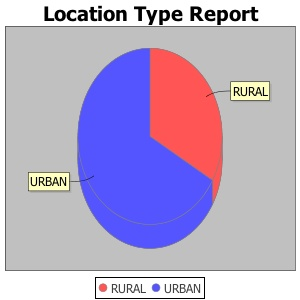
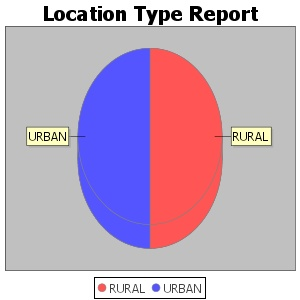
Add new utilities and REST api
email utilities and JFree chart utilities

diff --git a/Basic-Spring-Web-Page/src/main/java/com/ebore/location/controllers/LocationController.java b/Basic-Spring-Web-Page/src/main/java/com/ebore/location/controllers/LocationController.java
@@ -2,6 +2,8 @@ package com.ebore.location.controllers;
 
 import java.util.List;
 
+import javax.servlet.ServletContext;
+
 import org.springframework.beans.factory.annotation.Autowired;
 import org.springframework.stereotype.Controller;
 import org.springframework.ui.ModelMap;
@@ -10,7 +12,10 @@ import org.springframework.web.bind.annotation.RequestMapping;
 import org.springframework.web.bind.annotation.RequestParam;
 
 import com.ebore.location.entities.Location;
+import com.ebore.location.repos.LocationRepository;
 import com.ebore.location.service.LocationService;
+import com.ebore.location.util.EmailUtil;
+import com.ebore.location.util.ReportUtil;
 
 
 @Controller
@@ -18,6 +23,18 @@ public class LocationController {
 	
 	@Autowired
 	LocationService service;
+	
+	@Autowired
+	LocationRepository repository;
+	
+	@Autowired
+	EmailUtil emailUtil;
+	
+	@Autowired
+	ReportUtil reportUtil;
+	
+	@Autowired
+	ServletContext sc;
 
 	@RequestMapping("/showCreate")
 	public String showCreate() {
@@ -29,6 +46,7 @@ public class LocationController {
 		Location locationSaved = service.saveLocation(location);
 		String msg = "Location saved with id: " + locationSaved.getId();
 		modelMap.addAttribute("msg", msg);
+		emailUtil.sendEmail("ez092653@gmail.com", "Location Saved", "Location saved successfully and about to return a response.");
 		return "createLocation";
 	}
 	
@@ -61,6 +79,14 @@ public class LocationController {
 		List<Location> locations = service.getAllLocations();
 		modelMap.addAttribute("locations",locations);
 		return "displayLocations";
+	}
+	
+	@RequestMapping("/generateReport")
+	public String generateReport() {
+		String path = sc.getRealPath("/");	
+		List<Object[]> data = repository.findTypeAndTypeCount();
+		reportUtil.generatePieChart(path, data);
+		return "report";
 	}
 
 }

diff --git a/Basic-Spring-Web-Page/src/main/java/com/ebore/location/controllers/LocationRESTController.java b/Basic-Spring-Web-Page/src/main/java/com/ebore/location/controllers/LocationRESTController.java
@@ -1,0 +1,45 @@
+package com.ebore.location.controllers;
+
+import java.util.List;
+
+import org.springframework.beans.factory.annotation.Autowired;
+import org.springframework.web.bind.annotation.DeleteMapping;
+import org.springframework.web.bind.annotation.GetMapping;
+import org.springframework.web.bind.annotation.PathVariable;
+import org.springframework.web.bind.annotation.PostMapping;
+import org.springframework.web.bind.annotation.PutMapping;
+import org.springframework.web.bind.annotation.RequestBody;
+import org.springframework.web.bind.annotation.RequestMapping;
+import org.springframework.web.bind.annotation.RestController;
+
+import com.ebore.location.entities.Location;
+import com.ebore.location.repos.LocationRepository;
+
+@RestController
+@RequestMapping("/locations")
+public class LocationRESTController {
+	
+	@Autowired
+	LocationRepository locationRepository;
+	
+	@GetMapping
+	public List<Location> getLocations() {
+		return locationRepository.findAll();
+		
+	}
+	
+	@PostMapping
+	public Location createLocation(@RequestBody Location location) {
+		return locationRepository.save(location);
+	}
+	
+	@PutMapping
+	public Location updateLocation(@RequestBody Location location) {
+		return locationRepository.save(location);
+	}
+	
+	@DeleteMapping("/{id}")
+	public void deleteLocation(@PathVariable("id") int id) {
+		locationRepository.delete(id);
+	}
+}

diff --git a/Basic-Spring-Web-Page/src/main/java/com/ebore/location/util/ReportUtilImpl.java b/Basic-Spring-Web-Page/src/main/java/com/ebore/location/util/ReportUtilImpl.java
@@ -1,0 +1,33 @@
+package com.ebore.location.util;
+
+import java.io.File;
+import java.io.IOException;
+import java.util.List;
+
+import org.jfree.chart.ChartFactory;
+import org.jfree.chart.ChartUtilities;
+import org.jfree.chart.JFreeChart;
+import org.jfree.data.general.DefaultPieDataset;
+import org.springframework.stereotype.Component;
+
+@Component
+public class ReportUtilImpl implements ReportUtil {
+
+	@Override
+	public void generatePieChart(String path, List<Object[]> data) {	
+		DefaultPieDataset dataset = new DefaultPieDataset();
+		
+		for (Object[] objects : data) {
+			dataset.setValue(objects[0].toString(), new Double(objects[1].toString()));
+		}
+		
+		JFreeChart chart = ChartFactory.createPieChart3D("Location Type Report", dataset);
+		
+		try {
+			ChartUtilities.saveChartAsJPEG(new File(path + "/pieChart2.jpeg"), chart, 300, 300);
+		} catch (IOException e) {
+			e.printStackTrace();
+		}
+	}
+
+}

diff --git a/Basic-Spring-Web-Page/src/main/java/com/ebore/location/util/EmailUtilImpl.java b/Basic-Spring-Web-Page/src/main/java/com/ebore/location/util/EmailUtilImpl.java
@@ -1,0 +1,34 @@
+package com.ebore.location.util;
+
+import javax.mail.MessagingException;
+import javax.mail.internet.MimeMessage;
+
+import org.springframework.beans.factory.annotation.Autowired;
+import org.springframework.mail.javamail.JavaMailSender;
+import org.springframework.mail.javamail.MimeMessageHelper;
+import org.springframework.stereotype.Component;
+
+@Component
+public class EmailUtilImpl implements EmailUtil {
+	
+	@Autowired
+	private JavaMailSender sender;
+
+	@Override
+	public void sendEmail(String toAddress, String subject, String body) {
+		
+		MimeMessage message = sender.createMimeMessage();
+		MimeMessageHelper helper = new MimeMessageHelper(message);
+		try {
+			helper.setTo(toAddress);
+			helper.setText(body);
+			helper.setSubject(subject);
+		} catch (MessagingException e) {
+			e.printStackTrace();
+		}
+		
+		sender.send(message);
+
+	}
+
+}

diff --git a/Basic-Spring-Web-Page/src/main/java/com/ebore/location/util/ReportUtil.java b/Basic-Spring-Web-Page/src/main/java/com/ebore/location/util/ReportUtil.java
@@ -1,0 +1,8 @@
+package com.ebore.location.util;
+
+import java.util.List;
+
+public interface ReportUtil {
+
+	void generatePieChart(String path,List<Object[]> data);
+}

diff --git a/Basic-Spring-Web-Page/src/main/java/com/ebore/location/util/EmailUtil.java b/Basic-Spring-Web-Page/src/main/java/com/ebore/location/util/EmailUtil.java
@@ -1,0 +1,7 @@
+package com.ebore.location.util;
+
+public interface EmailUtil {
+
+	void sendEmail(String toAddress, String subject, String body);
+
+}
